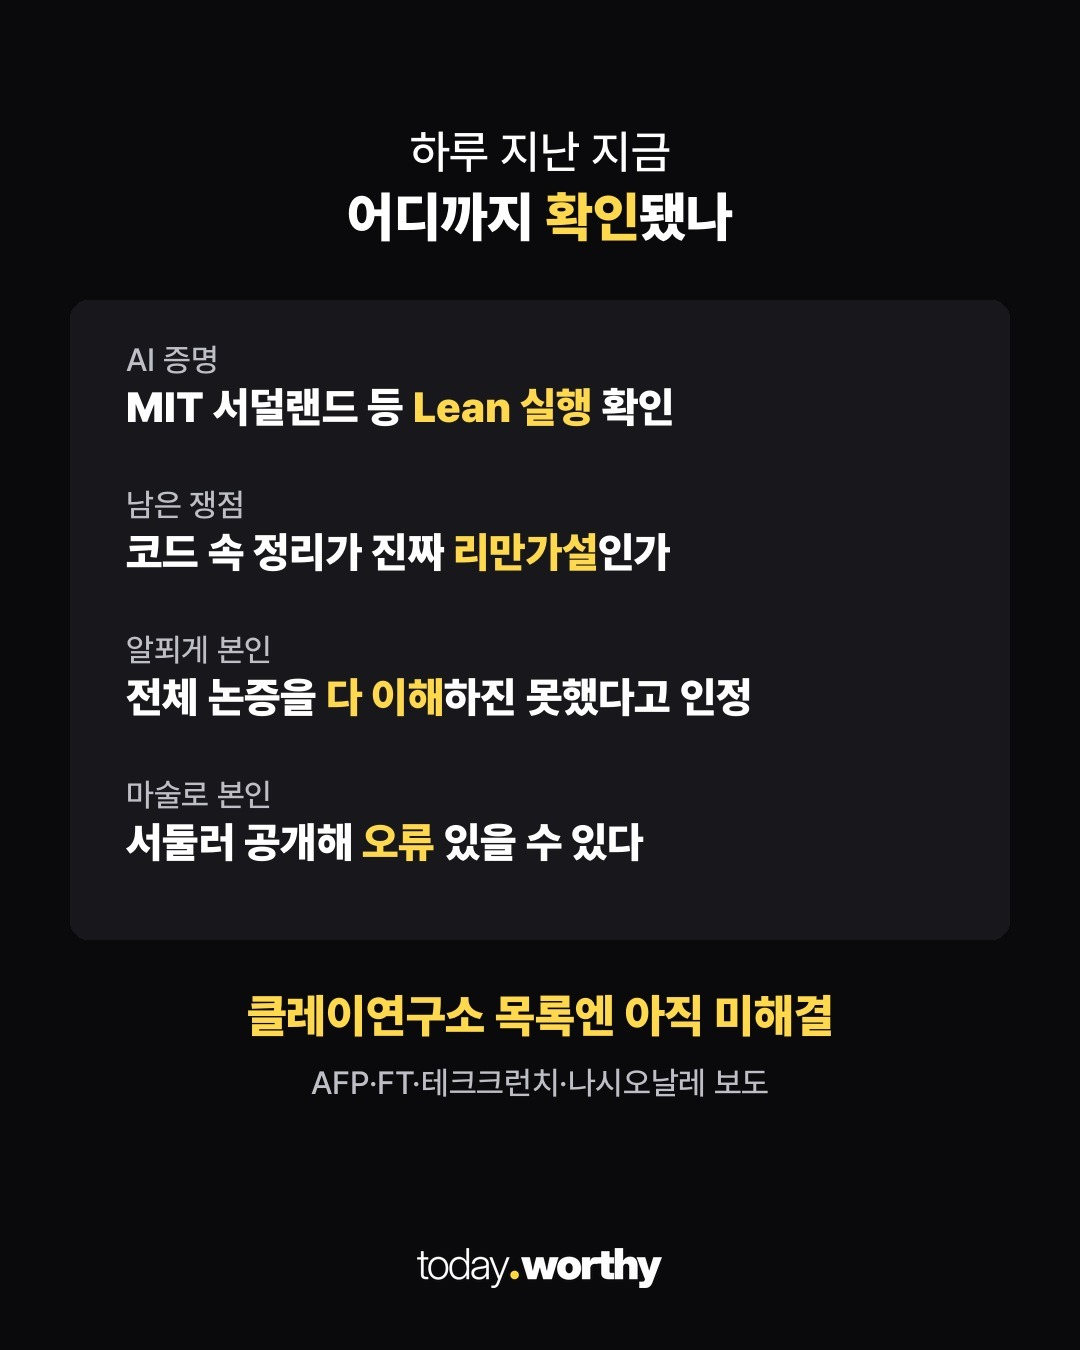
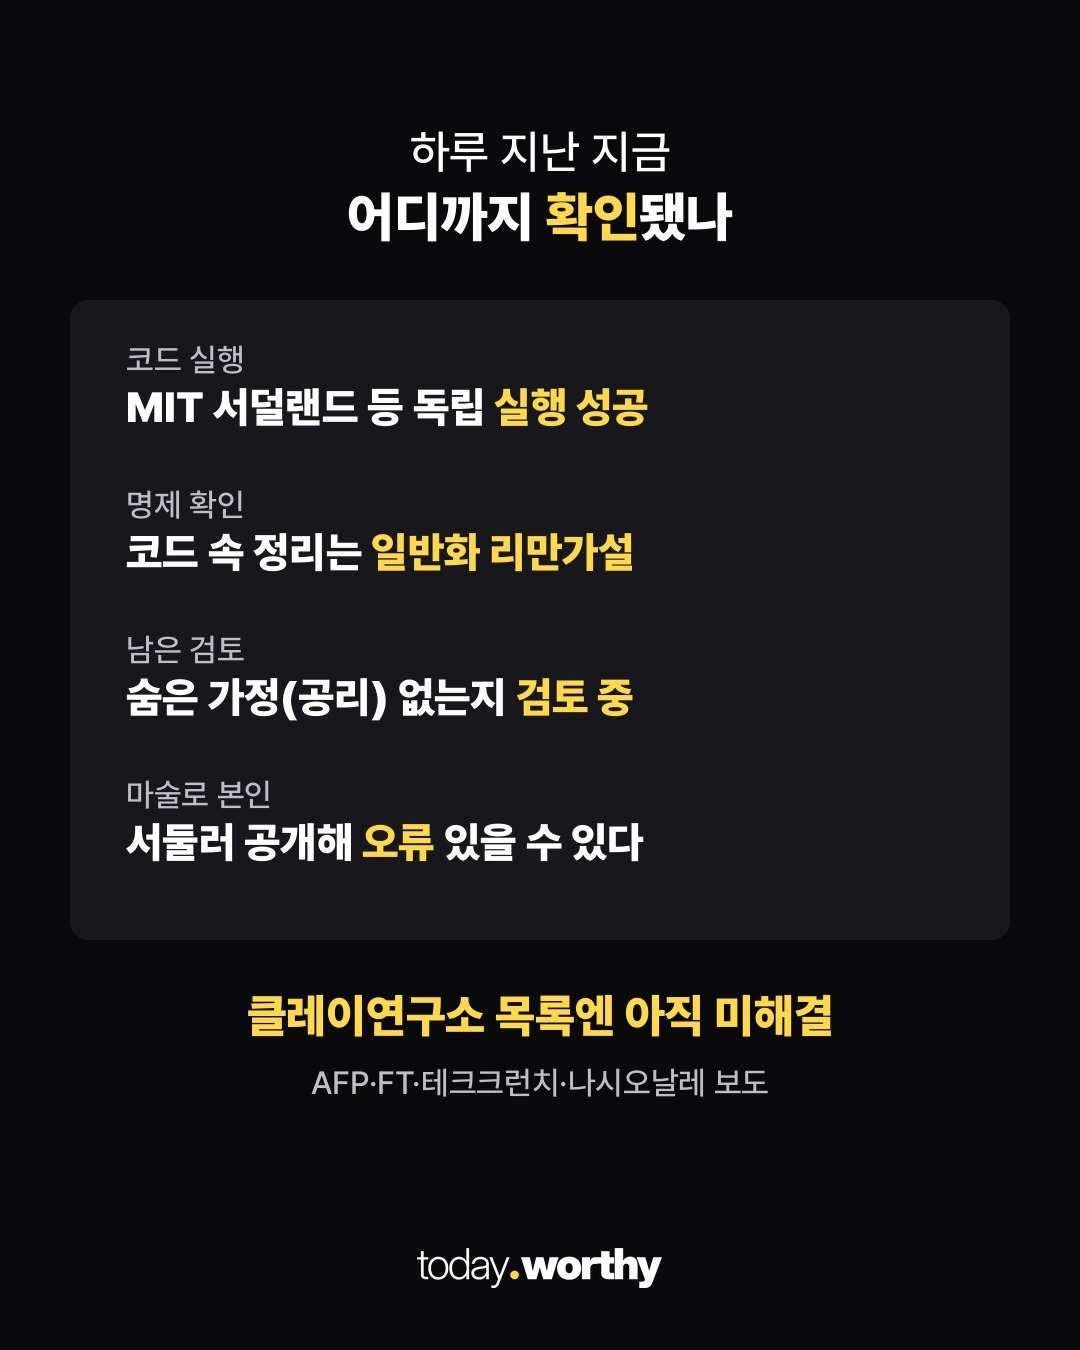
riemann: 6장 검증 현황 갱신(독립 실행 성공·명제=GRH 확인·공리 검토 중)
Claude-Session: https://claude.ai/code/session_01FGsw5QnWxFUsnopcB1Czie

diff --git a/media/20261121-riemann/build_cards.py b/media/20261121-riemann/build_cards.py
@@ -90,9 +90,9 @@ frame(("그런데 같은 날 '반전'", "\"100% 사람이 만든 증명\"도 공
 
 # 6장 하루 지난 지금, 검증 상황
 frame(("하루 지난 지금", "어디까지 '확인'됐나"),
-      panel([("AI 증명", "MIT 서덜랜드 등 'Lean 실행' 확인"),
-             ("남은 쟁점", "코드 속 정리가 진짜 '리만가설'인가"),
-             ("알푀게 본인", "전체 논증을 '다 이해'하진 못했다고 인정"),
+      panel([("코드 실행", "MIT 서덜랜드 등 독립 '실행 성공'"),
+             ("명제 확인", "코드 속 정리는 '일반화 리만가설'"),
+             ("남은 검토", "숨은 가정(공리) 없는지 '검토 중'"),
              ("마술로 본인", "서둘러 공개해 '오류' 있을 수 있다")], h=640),
       "클레이연구소 목록엔 아직 '미해결'", "AFP·FT·테크크런치·나시오날레 보도").save(O / "c06.jpg", quality=93)
 print("ok")
